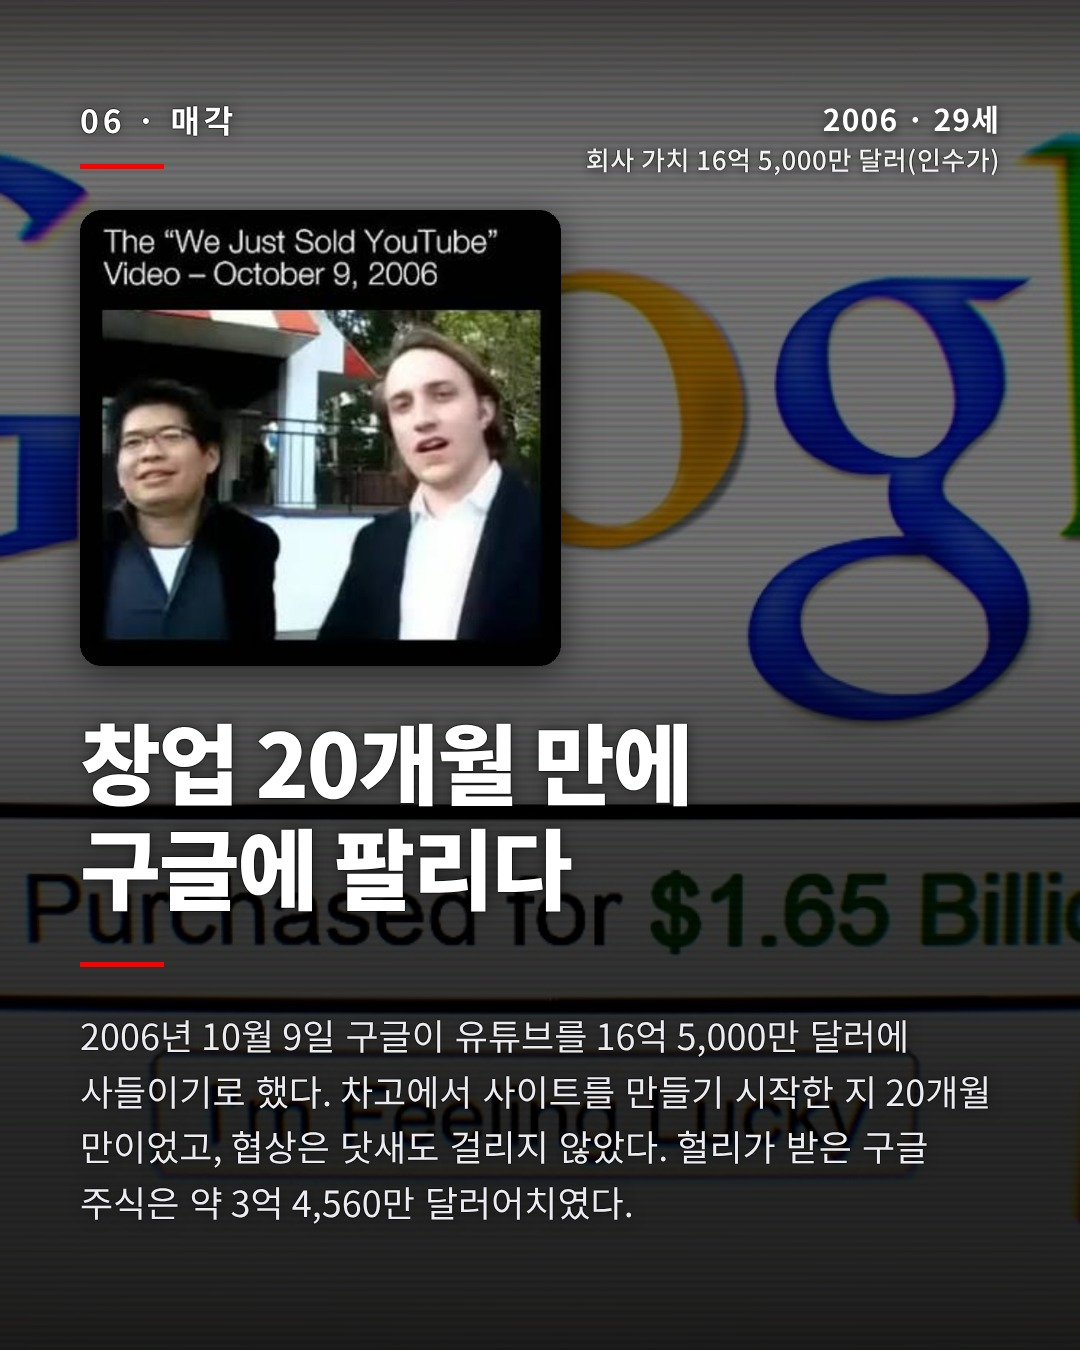
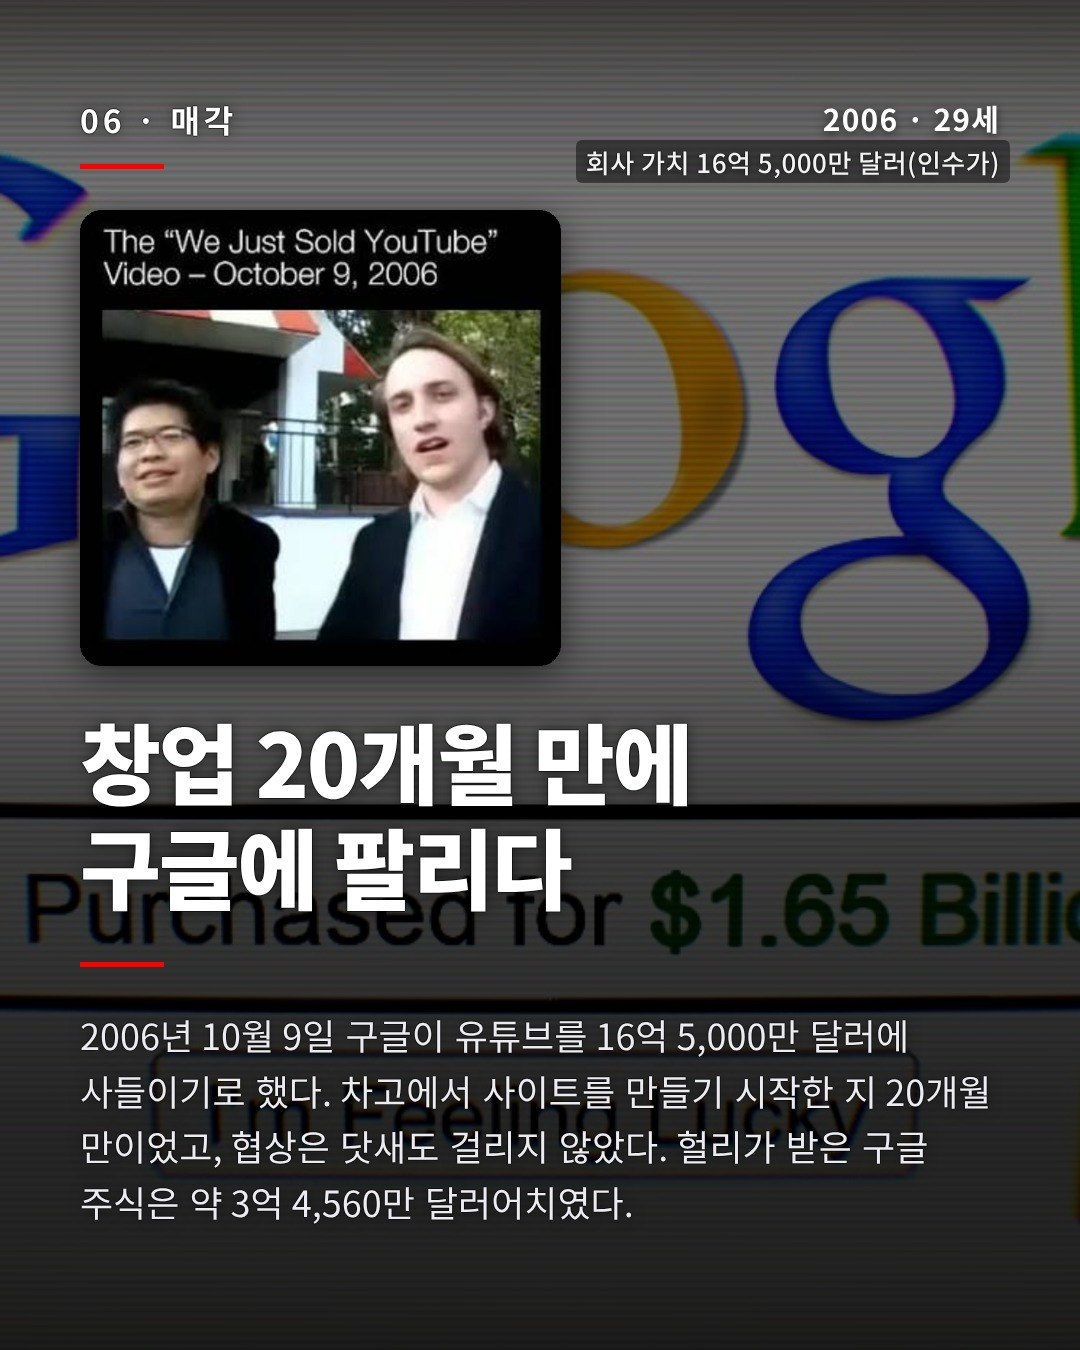
render.py: 회사 가치 줄 뒤 반투명 바탕(밝은 사진 가독성), #10 재내보내기
Claude-Session: https://claude.ai/code/session_0174UmVuUF73TP9F2KNQyC6e

Changed region(s): [[0.5194, 0.0933, 0.9472, 0.1556]]

diff --git a/render.py b/render.py
@@ -33,7 +33,7 @@ html,body{width:1080px;height:1350px;background:#000;color:#fff;
  background:rgba(0,0,0,.55);padding:12px 26px;border-radius:40px}
 .when{position:absolute;top:96px;right:80px;font-size:30px;font-weight:700;letter-spacing:.04em;color:#fff;text-shadow:0 2px 10px rgba(0,0,0,.7)}
 /* 11/11 사용자: 연도·나이 아래 그때 회사 가치(추정) — 장마다 비교 */
-.val{position:absolute;top:140px;right:80px;font-size:26px;font-weight:500;letter-spacing:.02em;color:#fff;opacity:.92;text-shadow:0 2px 10px rgba(0,0,0,.7),1px 0 0 rgba(0,0,0,.5),-1px 0 0 rgba(0,0,0,.5)}
+.val{position:absolute;top:140px;right:70px;padding:3px 10px;border-radius:6px;background:rgba(0,0,0,.5);font-size:26px;font-weight:500;letter-spacing:.02em;color:#fff;opacity:.92;text-shadow:0 2px 10px rgba(0,0,0,.7),1px 0 0 rgba(0,0,0,.5),-1px 0 0 rgba(0,0,0,.5)}
 .txt{position:absolute;left:80px;right:80px;bottom:120px}
 h1{font-size:88px;line-height:1.2;font-weight:900;letter-spacing:-.025em;white-space:pre-line}
 .cover h1{font-size:90px}
